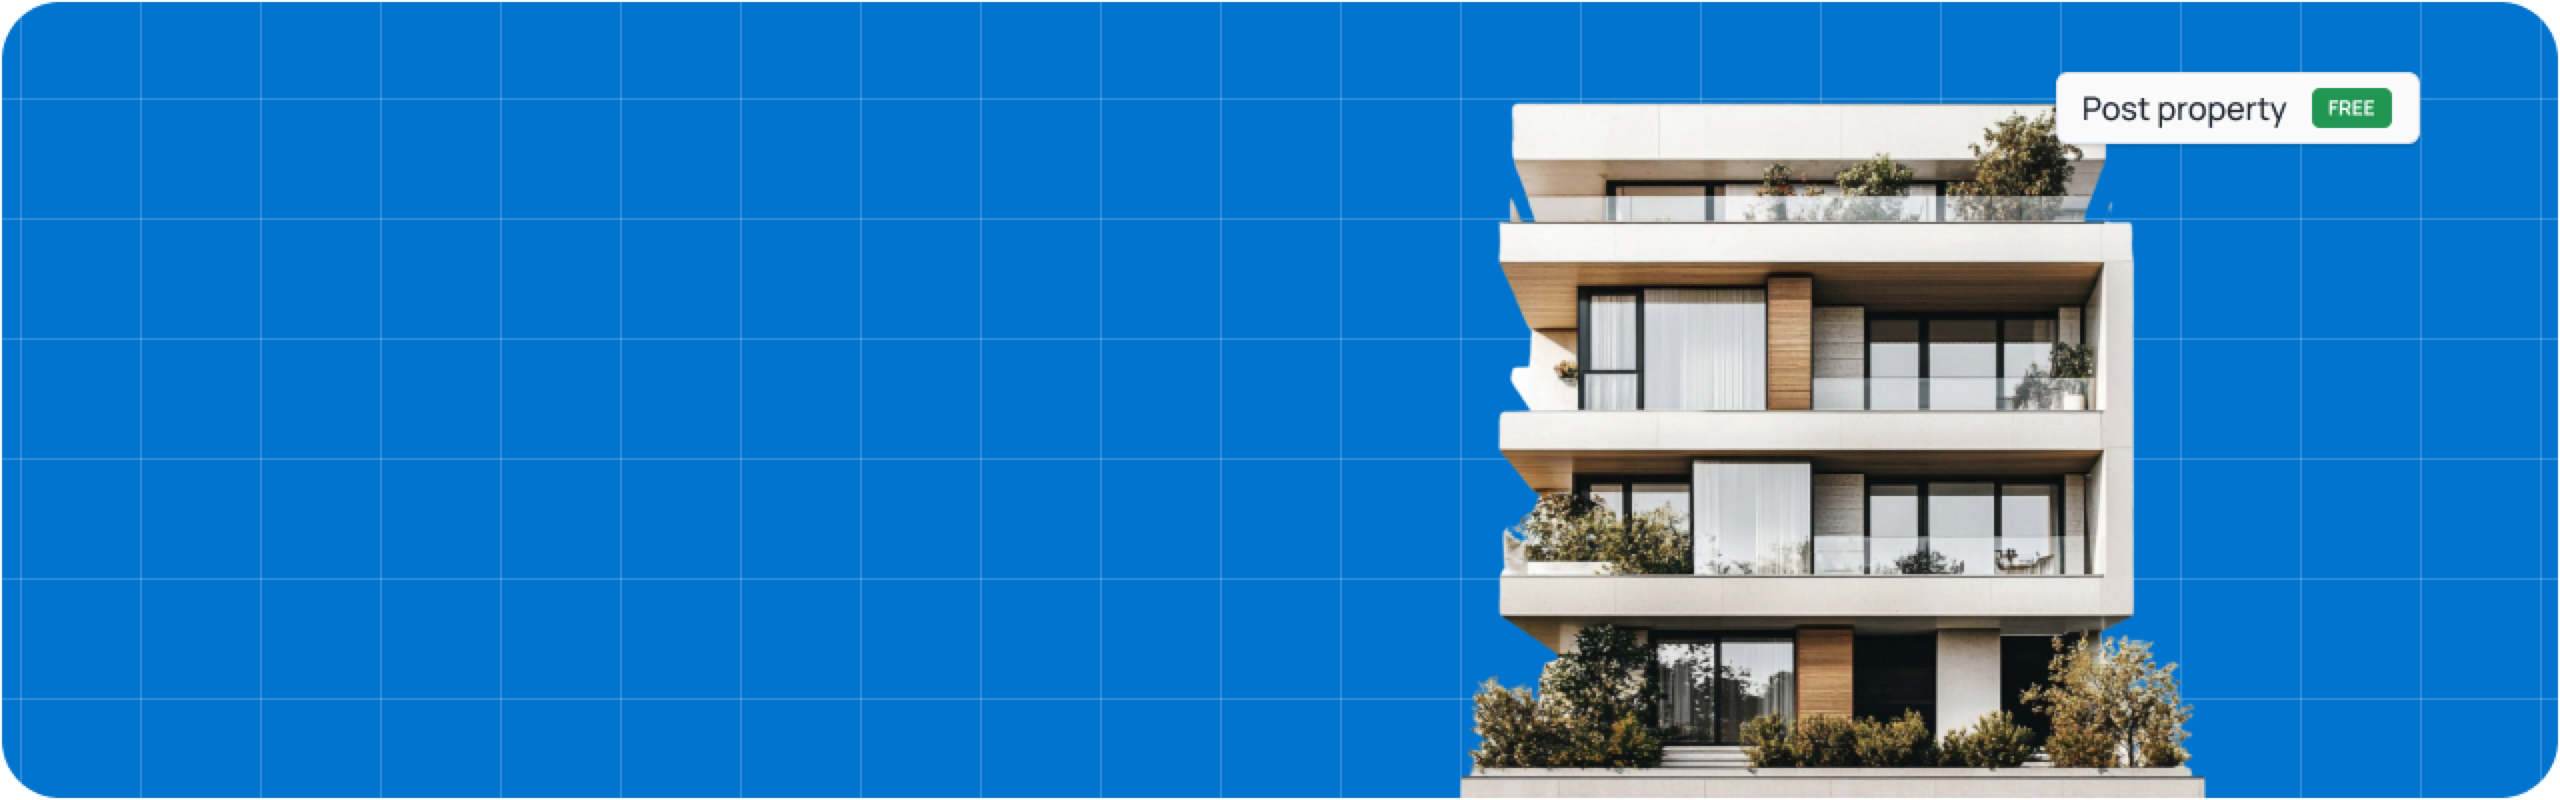
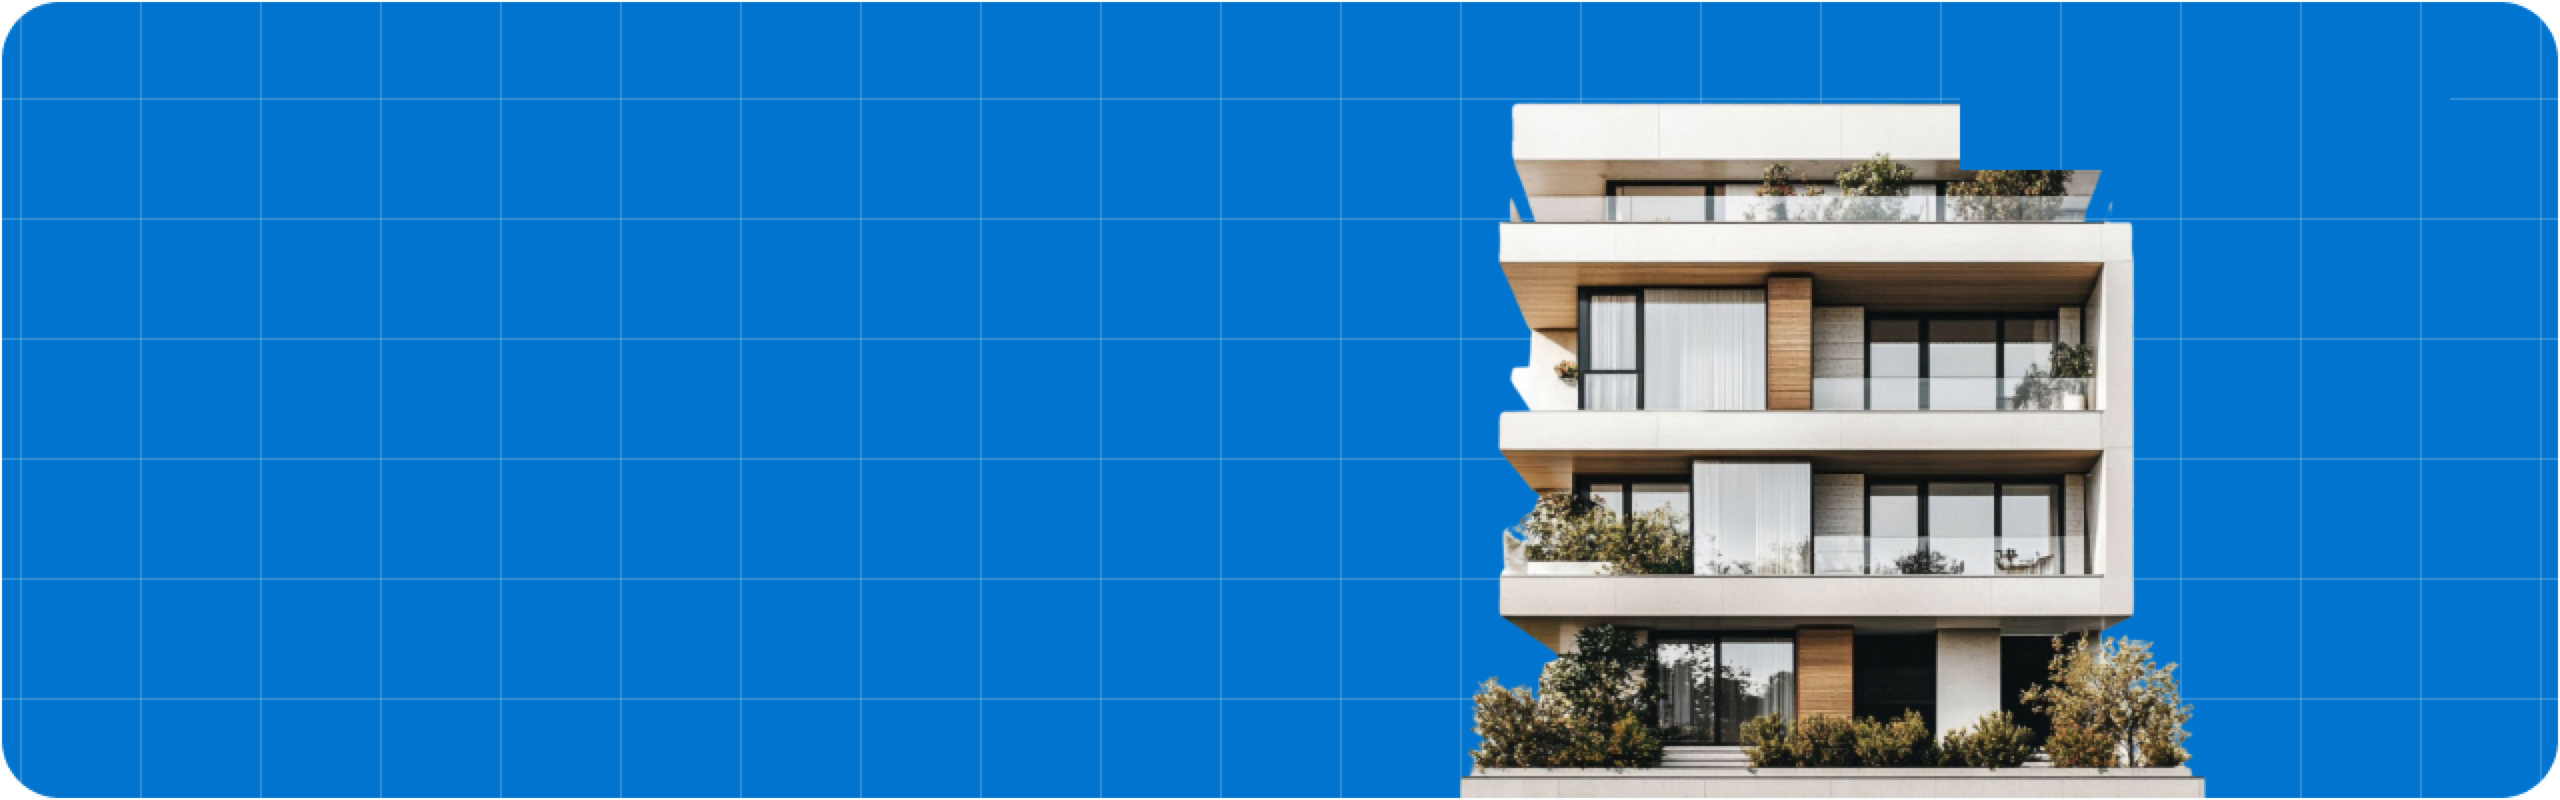
fix: restore visible Post property FREE pill and remove baked-in duplicate from background image

Changed region(s): [[0.75, 0.0625, 0.9688, 0.2188]]

diff --git a/src/app/page.tsx b/src/app/page.tsx
@@ -135,13 +135,17 @@ export default function HomePage() {
               }}
             />
 
-            {/* Seamless interactive click target over the 'Post property FREE' pill */}
+            {/* Top Right Floating Pill: Post property FREE */}
             <Link
               href="/owner"
               aria-label="Post property for free"
-              title="Post property for free"
-              className="absolute top-[6.5%] sm:top-[7%] right-[5%] sm:right-[5.5%] w-[150px] sm:w-[170px] md:w-[185px] h-[34px] sm:h-[38px] md:h-[42px] z-20 cursor-pointer rounded-xl hover:ring-2 hover:ring-white/50 active:scale-95 transition-all"
-            />
+              className="absolute top-5 sm:top-6 lg:top-7 right-5 sm:right-7 lg:right-9 z-20 inline-flex items-center gap-2 bg-white hover:bg-slate-50 text-slate-900 text-xs sm:text-sm font-semibold px-3.5 sm:px-4 py-2 sm:py-2.5 rounded-xl shadow-md hover:shadow-lg hover:scale-105 active:scale-95 transition-all duration-200"
+            >
+              <span>Post property</span>
+              <span className="bg-[#00a862] text-white text-[10px] sm:text-xs font-bold px-1.5 py-0.5 rounded tracking-wide">
+                FREE
+              </span>
+            </Link>
 
             {/* Left Content Area */}
             <div className="relative z-10 flex flex-col justify-center h-full p-6 sm:p-8 md:p-10 lg:p-12 max-w-[550px]">
